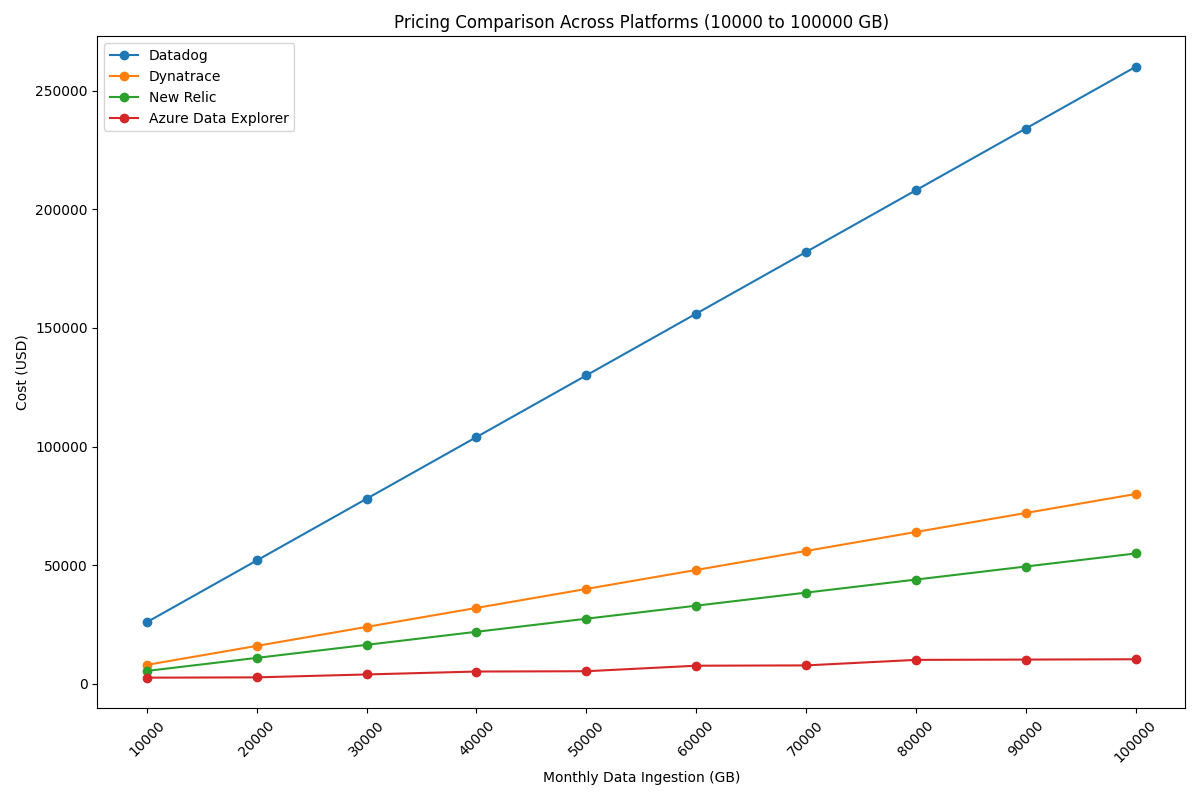
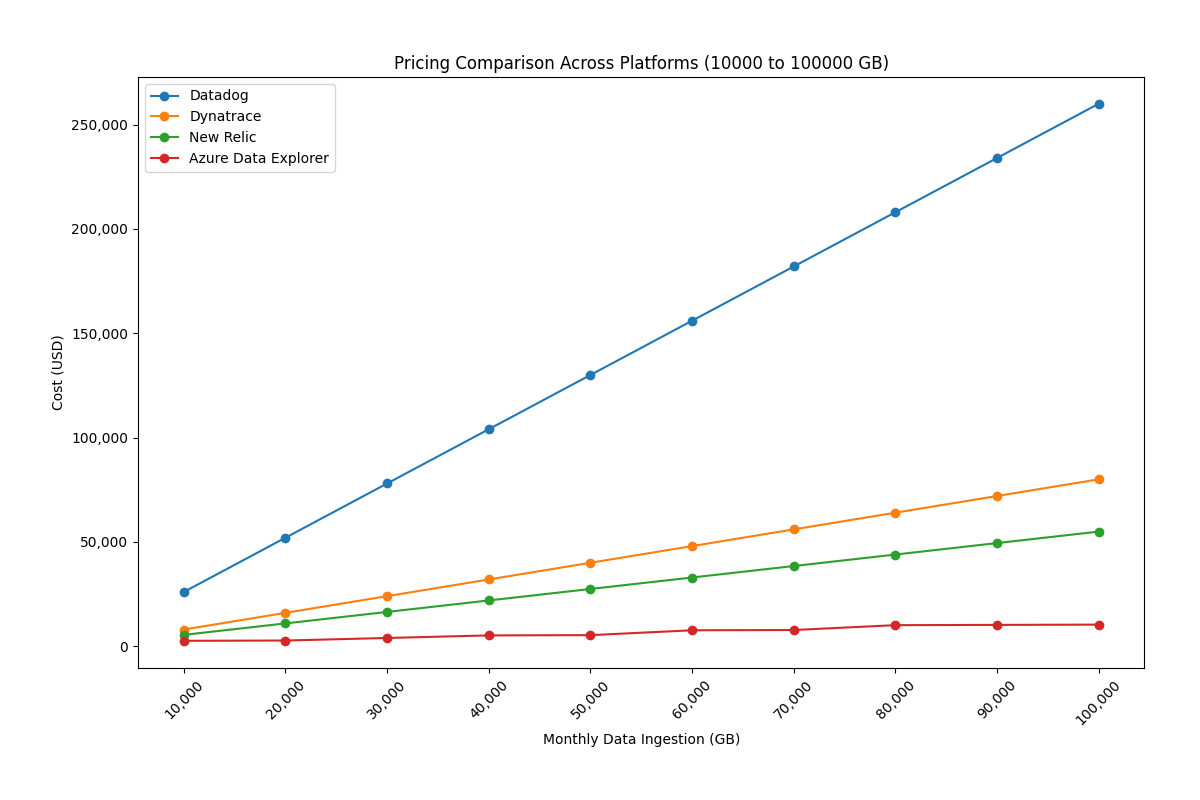
pricing_comparison

diff --git a/scripts/pricing_comparison.py b/scripts/pricing_comparison.py
@@ -1,4 +1,5 @@
 import matplotlib.pyplot as plt
+from matplotlib.ticker import StrMethodFormatter
 import numpy as np
 from tabulate import tabulate
 
@@ -56,7 +57,16 @@ pricing_info = {
             70000: 7777,
             80000: 10103,
             90000: 10233,
-            100000: 10363
+            100000: 10363,
+            200000: 20455,
+            300000: 30528,
+            400000: 41412,
+            500000: 51494,
+            600000: 61576,
+            700000: 71659,
+            800000: 81741,
+            900000: 91824,
+            1000000: 101906,
         }
     }
 }
@@ -85,7 +95,8 @@ for scale in scales:
 ranges = [
     (100, 1000, 'pricing_comparison_100_to_1000.png'),
     (1000, 10000, 'pricing_comparison_1000_to_10000.png'),
-    (10000, 100000, 'pricing_comparison_10000_to_100000.png')
+    (10000, 100000, 'pricing_comparison_10000_to_100000.png'),
+    (100000, 1000000, 'pricing_comparison_100000_to_1000000.png')
 ]
 
 # Plot each range separately
@@ -102,7 +113,10 @@ for start, end, filename in ranges:
     plt.title(f'Pricing Comparison Across Platforms ({start} to {end} GB)')
     plt.xticks(filtered_scales, rotation=45)
     plt.legend()
-    plt.tight_layout()
+    plt.tight_layout(pad=4.0)
+    plt.gca().xaxis.set_major_formatter(StrMethodFormatter('{x:,.0f}'))  # Format x-axis with commas
+    plt.gca().yaxis.set_major_formatter(StrMethodFormatter('{x:,.0f}'))  # Format y-axis with commas
+
     plt.savefig(filename)
 
     print(f"Graph for range {start} to {end} GB has been generated and saved as {filename}.")
